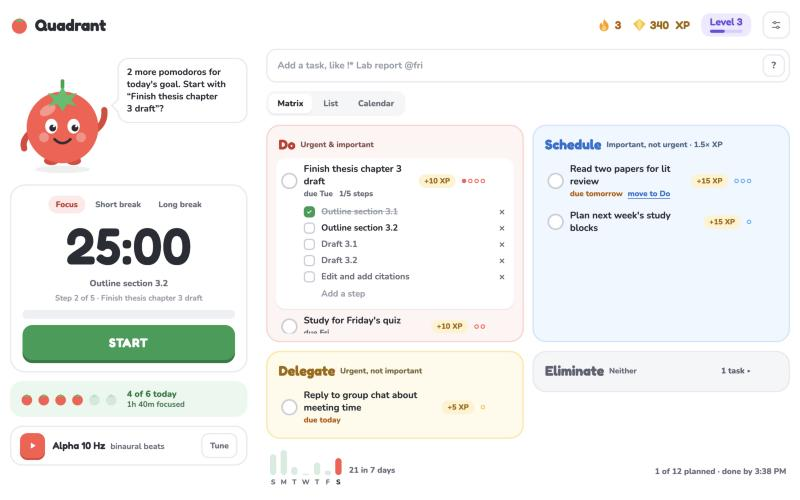
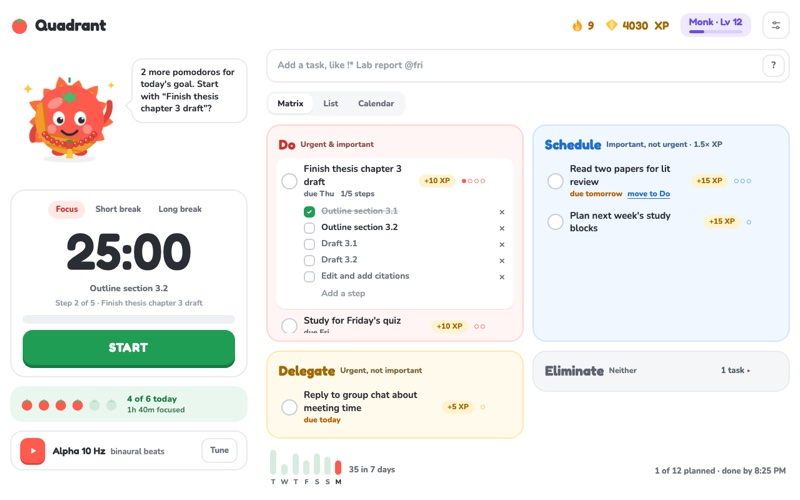
Move to focus.gmpl.dev and retake the README screenshot with Pom as a monk

diff --git a/index.html b/index.html
@@ -1404,7 +1404,7 @@ dialog::backdrop { background: rgba(42, 45, 52, 0.35); }
         ctx.fillStyle = ink; ctx.font = "700 64px Fredoka, Nunito, sans-serif"; ctx.fillText(n, x + 28, 1172);
         ctx.globalAlpha = 0.75; ctx.font = "800 30px Nunito, sans-serif"; ctx.fillText(label, x + 28, 1220); ctx.globalAlpha = 1;
       });
-      ctx.globalAlpha = 0.6; ctx.font = "800 26px Nunito, sans-serif"; ctx.fillText("quadrant-focus.vercel.app", 80, 1305); ctx.globalAlpha = 1;
+      ctx.globalAlpha = 0.6; ctx.font = "800 26px Nunito, sans-serif"; ctx.fillText("focus.gmpl.dev", 80, 1305); ctx.globalAlpha = 1;
       const blob = await new Promise(ok => cv.toBlob(ok, "image/png"));
       const file = new File([blob], `pom-the-${st.form[1]}.png`, { type: "image/png" });
       // phones get the share sheet; everything else saves the image

diff --git a/src/app.html b/src/app.html
@@ -1391,7 +1391,7 @@ dialog::backdrop { background: rgba(42, 45, 52, 0.35); }
         ctx.fillStyle = ink; ctx.font = "700 64px Fredoka, Nunito, sans-serif"; ctx.fillText(n, x + 28, 1172);
         ctx.globalAlpha = 0.75; ctx.font = "800 30px Nunito, sans-serif"; ctx.fillText(label, x + 28, 1220); ctx.globalAlpha = 1;
       });
-      ctx.globalAlpha = 0.6; ctx.font = "800 26px Nunito, sans-serif"; ctx.fillText("quadrant-focus.vercel.app", 80, 1305); ctx.globalAlpha = 1;
+      ctx.globalAlpha = 0.6; ctx.font = "800 26px Nunito, sans-serif"; ctx.fillText("focus.gmpl.dev", 80, 1305); ctx.globalAlpha = 1;
       const blob = await new Promise(ok => cv.toBlob(ok, "image/png"));
       const file = new File([blob], `pom-the-${st.form[1]}.png`, { type: "image/png" });
       // phones get the share sheet; everything else saves the image

diff --git a/README.md b/README.md
@@ -2,9 +2,9 @@
 
 A pomodoro timer, an Eisenhower matrix, and binaural beats on one page, with a small tomato named Pom to keep you company.
 
-Use it at [quadrant-focus.vercel.app](https://quadrant-focus.vercel.app).
+Use it at [focus.gmpl.dev](https://focus.gmpl.dev).
 
-![Quadrant Focus, with Pom the tomato and the timer on the left, four colored quadrant cards on the right, and a daily goal and week chart underneath](docs/screenshot.jpg)
+![Quadrant Focus, with Pom the tomato as a monk with prayer beads and a flame aura above the timer on the left, four colored quadrant cards on the right, and a daily goal and week chart underneath](docs/screenshot.jpg)
 
 I wanted three things in one place: the simple timer of [Pomofocus](https://pomofocus.io), an Eisenhower matrix for deciding what deserves my pomodoros in the first place, and binaural beats for when I need help settling in. Most tools give you one of these. Quadrant Focus puts them on a single page, and Pom makes the long study sessions feel a little less lonely.
 
